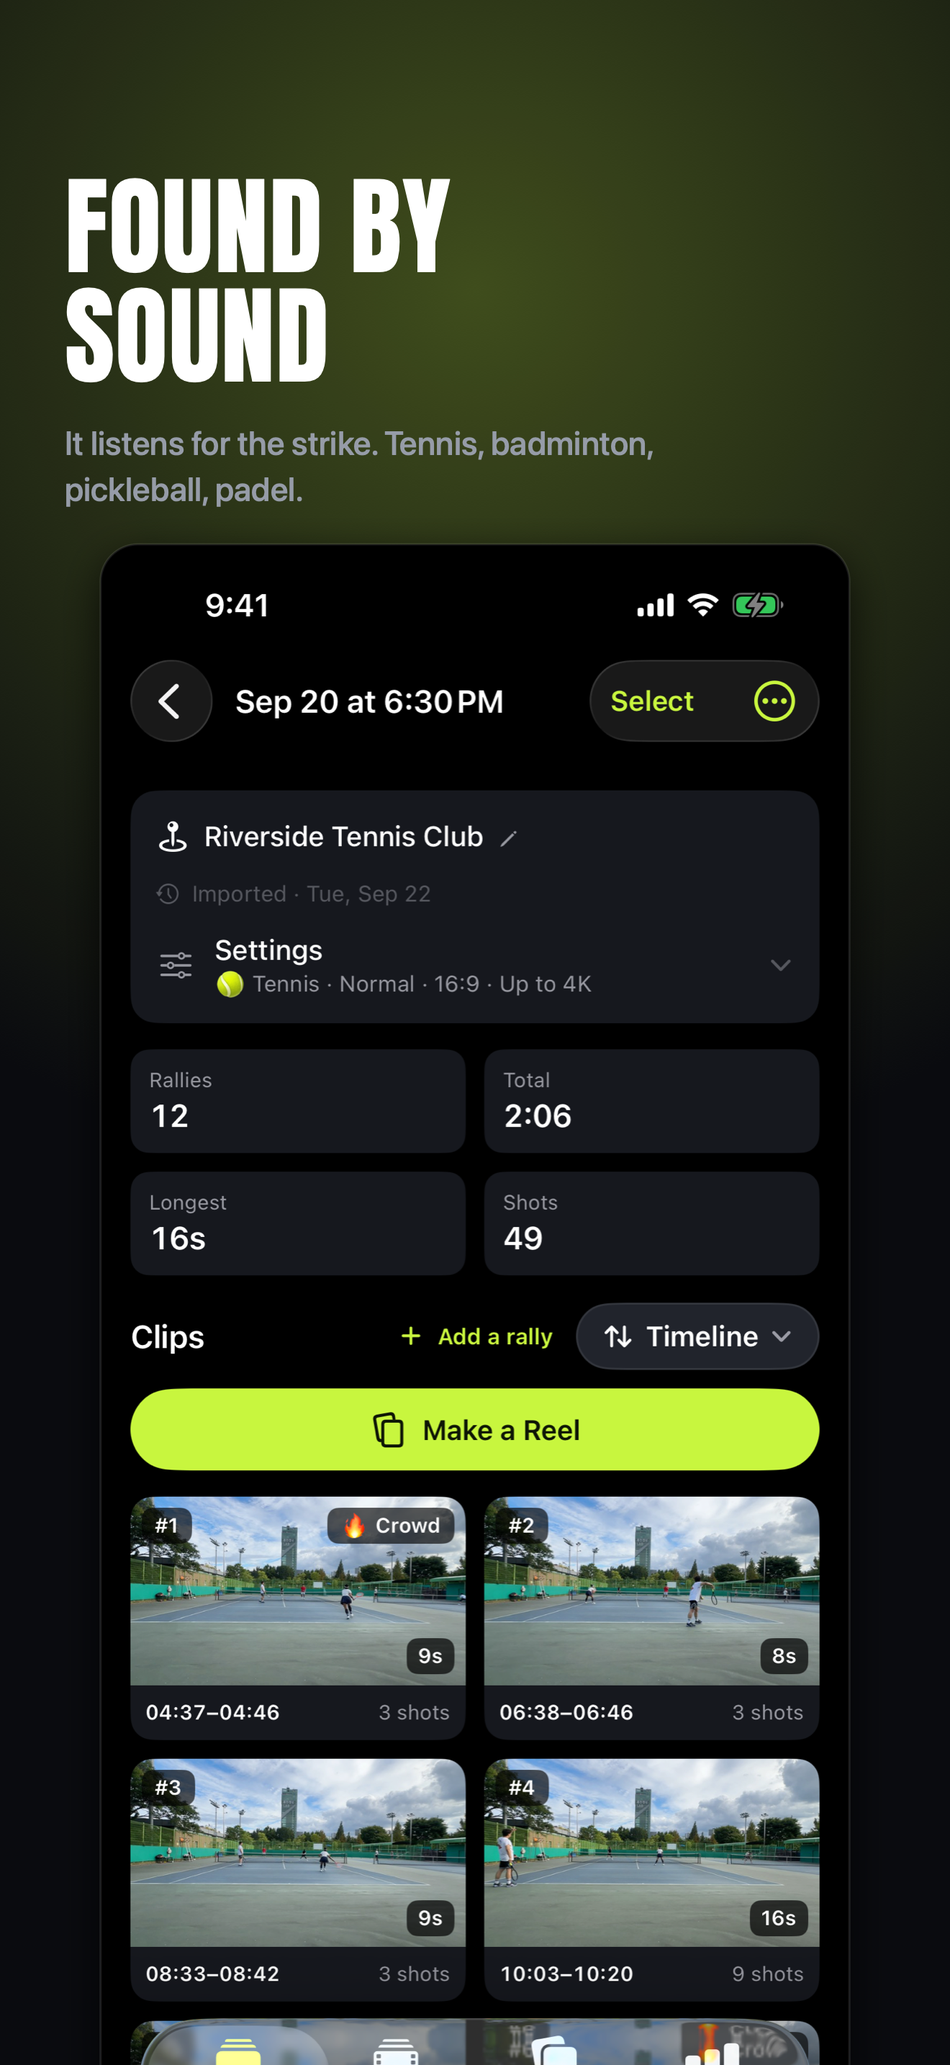
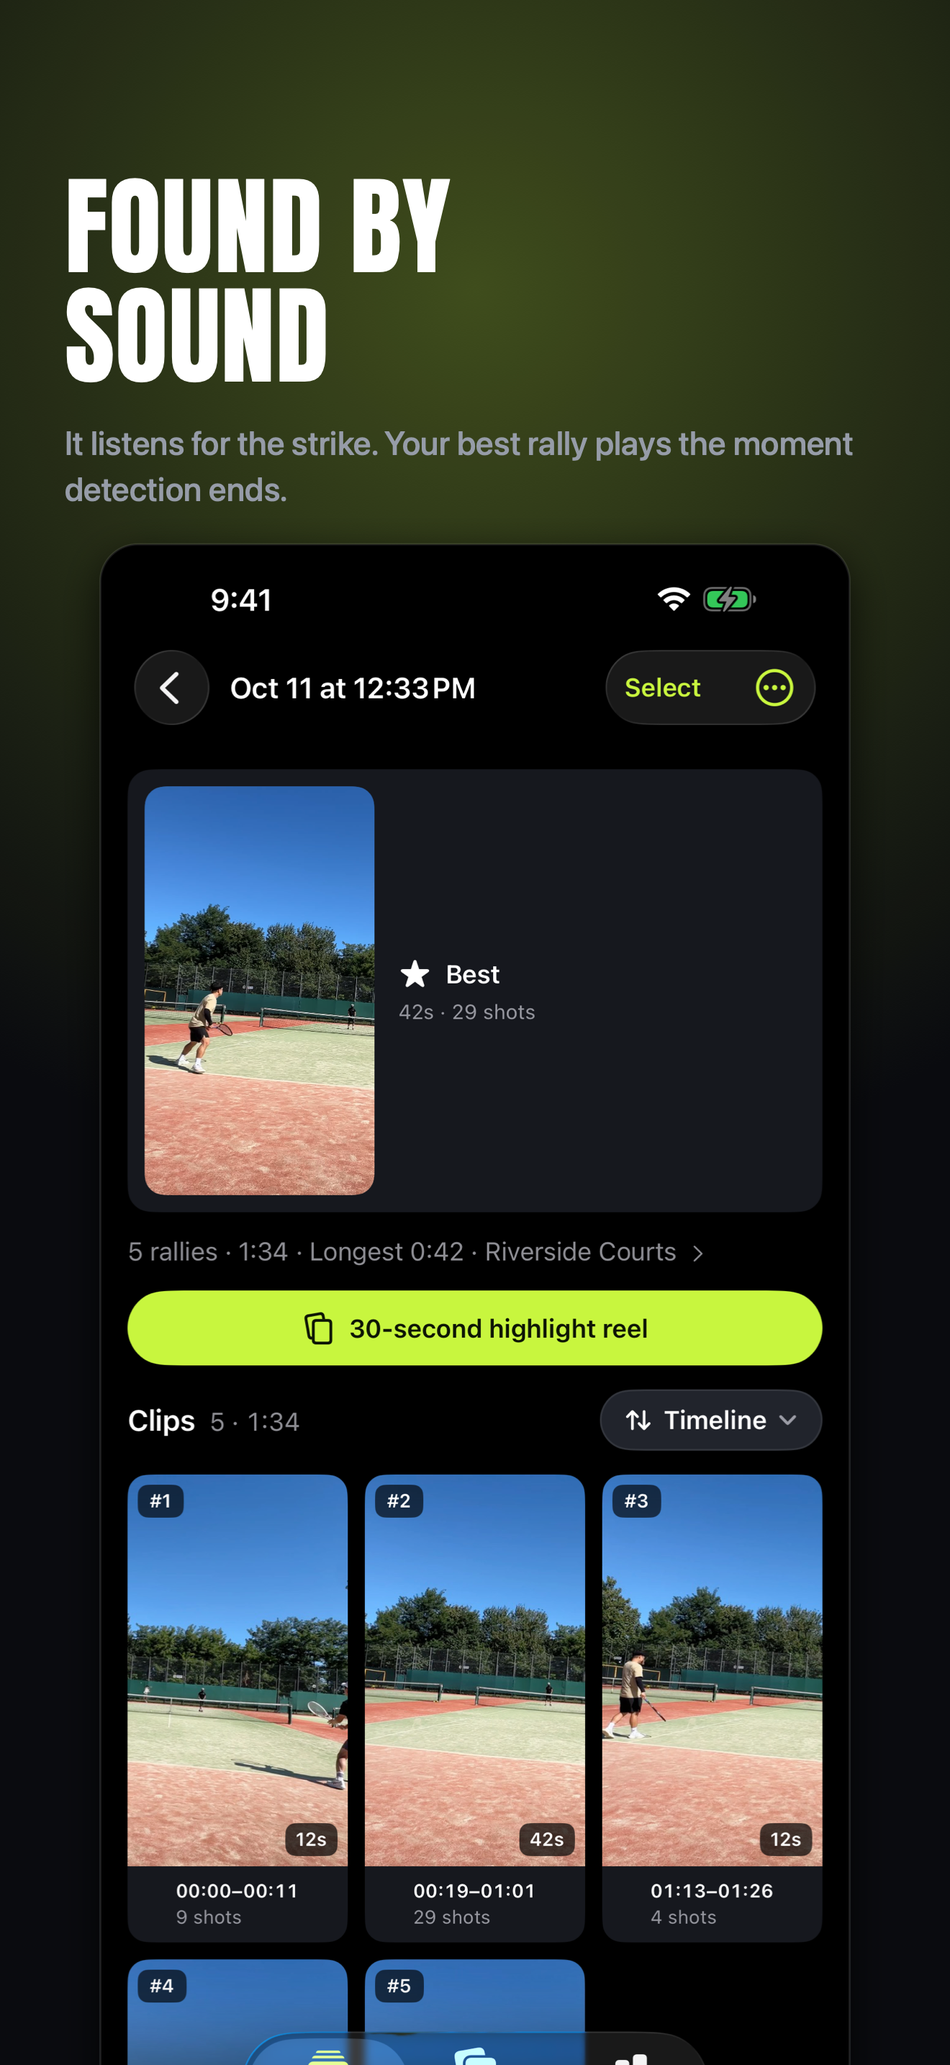
"내 경기"로 이름 통일 + 앱스토어 스크린샷 재촬영
- 라이브러리 제목·탭: 내 세션/라이브러리 → 내 경기/경기 (9개 언어)
  ko·en·ja의 다른 문구에 남은 "세션"도 경기로
- 시즌 "최장 랠리" 기록에서 60초+ 긴 구간 제외, 길이 표기 m:ss 통일
- 스크린샷 5장을 D1–D4 화면으로 다시 만듦(영어 UI, Pro, 9:41)
  세션·릴스 설명 문구를 새 흐름에 맞춤

diff --git a/ios/Ribatto/L10n.swift b/ios/Ribatto/L10n.swift
@@ -92,10 +92,10 @@ enum L {
 
     private static let table: [String: [String: String]] = [
         "en": [
-            "library": "Library", "all_clips": "All Clips",
-            "my_sessions": "My Sessions",
+            "library": "Matches", "all_clips": "All Clips",
+            "my_sessions": "My Matches",
             "import_video": "Import Video",
-            "lib_empty_title": "No sessions yet",
+            "lib_empty_title": "No matches yet",
             "lib_empty_body": "Import a match video and Ribatto will keep only the rallies.",
             "not_detected": "Not analyzed yet",
             "detect": "Detect Rallies", "redetect": "Re-detect",
@@ -121,7 +121,7 @@ enum L {
             
             "play": "Play", "save": "Save", "rebuild": "Rebuild",
             "delete": "Delete", "delete_clip": "Delete Clip", "cancel": "Cancel",
-            "delete_session": "Delete Session",
+            "delete_session": "Delete Match",
             "long_block": "Maybe several",
             "long_block_explain": "Over a minute long. Several rallies may have been joined.",
             "long_block_note": "Several rallies may be joined into one",
@@ -156,21 +156,21 @@ enum L {
             "ob3_t": "Ready for Reels",
             "ob3_d": "Vertical clips and a highlight reel, made on your phone.",
             "pro_rerender_t": "Pass active",
-            "pro_rerender_d": "Re-render this session at full quality.",
+            "pro_rerender_d": "Re-render this match at full quality.",
             "rerender": "Re-render",
             "save_all": "Save all to Photos",
             "saved_n_fmt": "%d clips saved to Photos",
             "saved_one_fmt": "%d clip saved to Photos",
             "delete_one_clip": "Delete %d clip?",
-            "delete_one_session": "Delete %d session?",
-            "n_one_session": "%d session",
+            "delete_one_session": "Delete %d match?",
+            "n_one_session": "%d match",
             "rallies_one": "%d rally",
             "visits_one": "%d visit",
             "photos_denied": "Photo access is off. Enable it in Settings to save clips.",
             "feat_quality": "Full-quality export",
             "feat_quality_d": "Source quality instead of 720p — 4K wide, 1080p vertical.",
             "feat_saveall": "One-tap camera roll",
-            "feat_saveall_d": "Send every clip of a session to Photos at once.",
+            "feat_saveall_d": "Send every clip of a match to Photos at once.",
             "feat_merge_d": "Join chosen rallies into one video you can post as a single clip.",
             "season": "Season", "this_month": "This month", "all_time": "All time",
             "matches": "Matches", "records": "Personal records",
@@ -207,7 +207,7 @@ enum L {
             "target_frame": "Frame",
             "target_clip_title": "Track in this clip",
             "target_clip": "Track someone else in this clip",
-            "target_clip_reset": "Use the session's player",
+            "target_clip_reset": "Use the match's player",
             "target_clip_on": "This clip follows its own player",
             "target_lose_note": "If the player is hidden or leaves the frame, tracking can lose them — the crop then holds its last position.",
             "feat_target": "Follow one player",
@@ -315,15 +315,15 @@ enum L {
             "reel_preset": "Look", "preset_own": "As set",
             "preset_clean": "Clean", "preset_broadcast": "Broadcast",
             "preset_highlight": "Highlight", "preset_teaser": "Teaser",
-            "preset_own_d": "Keeps the caption exactly as each session has it.",
+            "preset_own_d": "Keeps the caption exactly as each match has it.",
             "preset_clean_d": "The whole rally, 9:16, caption low and quiet.",
             "preset_broadcast_d": "The whole rally, 9:16, caption as a bar across the top.",
             "preset_highlight_d": "Just the finish, 9:16, big outlined caption near the top.",
             "preset_teaser_d": "Winning shot first, then the rally. 4:5 for the feed.",
             "pos_top": "Top", "pos_center": "Middle", "pos_bottom": "Bottom",
-            "search_sessions": "Search sessions", "search_clips": "Search clips",
+            "search_sessions": "Search matches", "search_clips": "Search clips",
             "all": "All", "no_match": "Nothing matches that.",
-            "delete_n": "Delete %d", "delete_n_sessions": "Delete %d sessions?",
+            "delete_n": "Delete %d", "delete_n_sessions": "Delete %d matches?",
             "min_len": "Length", "any_len": "Any", "len_fmt": "%d s+",
             "keep_awake": "Stay in Ribatto until this finishes. If you leave, it pauses and picks up when you come back.",
             "keep_awake_bg": "You can use other apps — Ribatto keeps going and lets you know when it's done.",
@@ -352,7 +352,7 @@ enum L {
             "photos_needed": "Allow photo access to import without copying.",
             "filter": "Filter", "clear": "Clear", "delete_n_clips": "Delete %d clips?",
             "more": "More",
-            "n_sessions": "%d sessions",
+            "n_sessions": "%d matches",
             "locked_fmt": "%@ needs a pass",
             "export_quality": "Export quality",
             "quality_720": "720p", "quality_source": "Up to 4K",
@@ -426,10 +426,10 @@ enum L {
             
         ],
         "ko": [
-            "library": "라이브러리", "all_clips": "모든 클립",
-            "my_sessions": "내 세션",
+            "library": "경기", "all_clips": "모든 클립",
+            "my_sessions": "내 경기",
             "import_video": "영상 가져오기",
-            "lib_empty_title": "아직 세션이 없습니다",
+            "lib_empty_title": "아직 경기가 없습니다",
             "lib_empty_body": "경기 영상을 가져오면 랠리만 골라 클립으로 만들어드립니다.",
             "not_detected": "아직 감지 전",
             "detect": "랠리 감지", "redetect": "다시 감지",
@@ -455,7 +455,7 @@ enum L {
             
             "play": "재생", "save": "저장", "rebuild": "다시 만들기",
             "delete": "삭제", "delete_clip": "클립 삭제", "cancel": "취소",
-            "delete_session": "세션 삭제",
+            "delete_session": "경기 삭제",
             "long_block": "여러 랠리일 수 있음",
             "long_block_explain": "1분이 넘는 구간이에요. 랠리 여러 개가 붙었을 수 있어요.",
             "long_block_note": "랠리 여러 개가 하나로 묶였을 수 있어요",
@@ -490,21 +490,21 @@ enum L {
             "ob3_t": "릴스까지 한 번에",
             "ob3_d": "세로 클립과 하이라이트 합본을 폰에서 바로 만듭니다.",
             "pro_rerender_t": "패스 이용 중",
-            "pro_rerender_d": "이 세션을 원본 화질로 다시 만들 수 있습니다.",
+            "pro_rerender_d": "이 경기를 원본 화질로 다시 만들 수 있습니다.",
             "rerender": "다시 만들기",
             "save_all": "전체 사진 앱에 저장",
             "saved_n_fmt": "클립 %d개를 사진 앱에 저장했습니다",
             "saved_one_fmt": "클립 %d개를 사진에 저장했습니다",
             "delete_one_clip": "클립 %d개를 삭제할까요?",
-            "delete_one_session": "세션 %d개를 삭제할까요?",
-            "n_one_session": "세션 %d개",
+            "delete_one_session": "경기 %d개를 삭제할까요?",
+            "n_one_session": "경기 %d개",
             "rallies_one": "랠리 %d개",
             "visits_one": "%d회",
             "photos_denied": "사진 접근이 꺼져 있습니다. 설정에서 허용해 주세요.",
             "feat_quality": "최고 화질 저장",
             "feat_quality_d": "720p 대신 원본 화질로 — 가로 4K, 세로 1080p.",
             "feat_saveall": "한 번에 카메라 롤로",
-            "feat_saveall_d": "세션의 모든 클립을 사진 앱에 한 번에 저장.",
+            "feat_saveall_d": "경기의 모든 클립을 사진 앱에 한 번에 저장.",
             "feat_merge_d": "고른 랠리를 하나의 영상으로 합쳐 한 번에 올릴 수 있습니다.",
             "season": "기록", "this_month": "이번 달", "all_time": "전체 기간",
             "matches": "경기", "records": "개인 기록",
@@ -541,7 +541,7 @@ enum L {
             "target_frame": "프레임",
             "target_clip_title": "이 클립에서 추적",
             "target_clip": "이 클립만 다시 지정",
-            "target_clip_reset": "세션 기본 선수 사용",
+            "target_clip_reset": "경기 기본 선수 사용",
             "target_clip_on": "이 클립은 따로 지정된 선수를 따라갑니다",
             "target_lose_note": "선수가 가려지거나 화면 밖으로 나가면 추적을 놓칠 수 있습니다. 그럴 땐 마지막 위치를 유지합니다.",
             "feat_target": "한 선수만 따라가기",
@@ -649,15 +649,15 @@ enum L {
             "reel_preset": "스타일", "preset_own": "내 설정",
             "preset_clean": "깔끔", "preset_broadcast": "중계",
             "preset_highlight": "하이라이트", "preset_teaser": "티저",
-            "preset_own_d": "자막을 각 세션에 설정한 그대로 둡니다.",
+            "preset_own_d": "자막을 각 경기에 설정한 그대로 둡니다.",
             "preset_clean_d": "랠리 전체, 9:16, 자막은 아래쪽에 담백하게.",
             "preset_broadcast_d": "랠리 전체, 9:16, 자막을 상단 띠로 올립니다.",
             "preset_highlight_d": "마무리 장면만, 9:16, 상단에 큼직한 외곽선 자막.",
             "preset_teaser_d": "위닝샷 먼저 보여주고 랠리 전체. 피드용 4:5.",
             "pos_top": "위", "pos_center": "가운데", "pos_bottom": "아래",
-            "search_sessions": "세션 검색", "search_clips": "클립 검색",
+            "search_sessions": "경기 검색", "search_clips": "클립 검색",
             "all": "전체", "no_match": "조건에 맞는 항목이 없습니다.",
-            "delete_n": "%d개 삭제", "delete_n_sessions": "세션 %d개를 삭제할까요?",
+            "delete_n": "%d개 삭제", "delete_n_sessions": "경기 %d개를 삭제할까요?",
             "min_len": "길이", "any_len": "전체", "len_fmt": "%d초 이상",
             "keep_awake": "끝날 때까지 리바토를 열어 두세요. 다른 앱으로 가면 멈췄다가 돌아오면 이어서 만듭니다.",
             "keep_awake_bg": "다른 앱을 써도 됩니다. 계속 만들고 끝나면 알려드릴게요.",
@@ -760,10 +760,10 @@ enum L {
             
         ],
         "ja": [
-            "library": "ライブラリ", "all_clips": "すべてのクリップ",
-            "my_sessions": "マイセッション",
+            "library": "試合", "all_clips": "すべてのクリップ",
+            "my_sessions": "自分の試合",
             "import_video": "動画を読み込む",
-            "lib_empty_title": "セッションがありません",
+            "lib_empty_title": "試合がありません",
             "lib_empty_body": "試合動画を読み込むと、ラリーだけを切り出します。",
             "not_detected": "未解析",
             "detect": "ラリー検出", "redetect": "再検出",
@@ -789,7 +789,7 @@ enum L {
             
             "play": "再生", "save": "保存", "rebuild": "作り直す",
             "delete": "削除", "delete_clip": "クリップを削除", "cancel": "キャンセル",
-            "delete_session": "セッションを削除",
+            "delete_session": "試合を削除",
             "long_block": "複数ラリーかも",
             "long_block_explain": "1分を超える区間です。複数のラリーがつながっているかもしれません。",
             "long_block_note": "複数のラリーが1つにまとまっているかもしれません",
@@ -824,7 +824,7 @@ enum L {
             "ob3_t": "そのままリールへ",
             "ob3_d": "縦型クリップとハイライトを、スマホの中で作成。",
             "pro_rerender_t": "パス利用中",
-            "pro_rerender_d": "このセッションを最高画質で作り直せます。",
+            "pro_rerender_d": "この試合を最高画質で作り直せます。",
             "rerender": "作り直す",
             "save_all": "すべて写真に保存",
             "saved_n_fmt": "%d 本のクリップを写真に保存しました",
@@ -838,7 +838,7 @@ enum L {
             "feat_quality": "最高画質で書き出し",
             "feat_quality_d": "720pではなく元の画質で — 最大4Kまで書き出せます。",
             "feat_saveall": "ワンタップでカメラロール",
-            "feat_saveall_d": "セッションの全クリップを写真に一括保存。",
+            "feat_saveall_d": "試合の全クリップを写真に一括保存。",
             "feat_merge_d": "選んだラリーを1本の動画にまとめて投稿できます。",
             "season": "記録", "this_month": "今月", "all_time": "通算",
             "matches": "試合", "records": "自己記録",
@@ -875,7 +875,7 @@ enum L {
             "target_frame": "フレーム",
             "target_clip_title": "このクリップで追跡",
             "target_clip": "このクリップだけ選び直す",
-            "target_clip_reset": "セッションの選手を使う",
+            "target_clip_reset": "試合の選手を使う",
             "target_clip_on": "このクリップは個別に指定された選手を追います",
             "target_lose_note": "選手が隠れたりフレームから出ると追跡を見失うことがあります。そのときは最後の位置を保ちます。",
             "feat_target": "特定の選手を追う",
@@ -983,15 +983,15 @@ enum L {
             "reel_preset": "スタイル", "preset_own": "現在の設定",
             "preset_clean": "シンプル", "preset_broadcast": "中継",
             "preset_highlight": "ハイライト", "preset_teaser": "ティザー",
-            "preset_own_d": "字幕は各セッションの設定のままにします。",
+            "preset_own_d": "字幕は各試合の設定のままにします。",
             "preset_clean_d": "ラリー全体、9:16、字幕は下に控えめに。",
             "preset_broadcast_d": "ラリー全体、9:16、字幕を上部の帯に。",
             "preset_highlight_d": "決め球だけ、9:16、上部に大きな縁取り字幕。",
             "preset_teaser_d": "ウイニングショットを先に、その後ラリー全体。フィード向け4:5。",
             "pos_top": "上", "pos_center": "中央", "pos_bottom": "下",
-            "search_sessions": "セッション検索", "search_clips": "クリップ検索",
+            "search_sessions": "試合を検索", "search_clips": "クリップ検索",
             "all": "すべて", "no_match": "条件に合う項目がありません。",
-            "delete_n": "%d件を削除", "delete_n_sessions": "%d件のセッションを削除しますか？",
+            "delete_n": "%d件を削除", "delete_n_sessions": "%d件の試合を削除しますか？",
             "min_len": "長さ", "any_len": "すべて", "len_fmt": "%d秒以上",
             "keep_awake": "完了するまでRibattoを開いたままにしてください。ほかのアプリに移ると一時停止し、戻ると続きから再開します。",
             "keep_awake_bg": "ほかのアプリを使っても大丈夫です。処理を続け、完了したらお知らせします。",
@@ -1094,7 +1094,7 @@ enum L {
             
         ],
         "es": [
-            "library": "Biblioteca",
+            "library": "Partidos",
             "all_clips": "Clips",
             "my_sessions": "Mis partidos",
             "import_video": "Importar vídeo",
@@ -1516,7 +1516,7 @@ enum L {
             
         ],
         "pt": [
-            "library": "Biblioteca",
+            "library": "Jogos",
             "all_clips": "Clipes",
             "my_sessions": "Meus jogos",
             "import_video": "Importar vídeo",
@@ -1938,7 +1938,7 @@ enum L {
             
         ],
         "de": [
-            "library": "Bibliothek",
+            "library": "Matches",
             "all_clips": "Alle Clips",
             "my_sessions": "Meine Matches",
             "import_video": "Video importieren",
@@ -2360,7 +2360,7 @@ enum L {
             
         ],
         "fr": [
-            "library": "Bibliothèque",
+            "library": "Matchs",
             "all_clips": "Tous les clips",
             "my_sessions": "Mes matchs",
             "import_video": "Importer une vidéo",
@@ -2782,7 +2782,7 @@ enum L {
             
         ],
         "it": [
-            "library": "Libreria",
+            "library": "Partite",
             "all_clips": "Tutti i clip",
             "my_sessions": "Le mie partite",
             "import_video": "Importa video",
@@ -3204,7 +3204,7 @@ enum L {
             
         ],
         "zh-Hans": [
-            "library": "资料库",
+            "library": "比赛",
             "all_clips": "全部片段",
             "my_sessions": "我的比赛",
             "import_video": "导入视频",

diff --git a/ios/Ribatto/Views/StatsView.swift b/ios/Ribatto/Views/StatsView.swift
@@ -91,7 +91,7 @@ struct StatsView: View {
                     card {
                         Text(L.s("records", lang)).font(.caption).foregroundStyle(.secondary)
                         record("flame.fill", L.s("rec_longest", lang),
-                               String(Int(l.seconds)) + L.s("sec", lang),
+                               fmtLen(l.seconds, lang),
                                L.dateOnly(l.date, lang))
                         if let b = s.busiest {
                             record("chart.bar.fill", L.s("rec_busiest", lang),
@@ -402,7 +402,7 @@ private struct ShareCard: View {
             // thirty hours.
             pill(fmtDur(stats.monthSeconds), L.s("total", lang))
             if let l = stats.longest {
-                pill(String(Int(l.seconds)) + L.s("sec", lang), L.s("longest", lang))
+                pill(fmtLen(l.seconds, lang), L.s("longest", lang))
             }
         }
     }
@@ -415,7 +415,7 @@ private struct ShareCard: View {
                 .foregroundStyle(dim)
             if let l = stats.longest {
                 line("flame.fill", L.s("rec_longest", lang),
-                     String(Int(l.seconds)) + L.s("sec", lang))
+                     fmtLen(l.seconds, lang))
             }
             if let b = stats.busiest {
                 line("chart.bar.fill", L.s("rec_busiest", lang), String(b.rallies))
@@ -560,7 +560,9 @@ extension StatsView {
             s.totalSeconds += secs
             s.shots += hits
 
-            if let longest = clips.map(\.duration).max(),
+            // A 60 s+ block is usually several points the detector joined;
+            // as a "personal record" it was a number the user never played.
+            if let longest = clips.filter({ !$0.segment.looksMerged }).map(\.duration).max(),
                longest > (s.longest?.seconds ?? 0) {
                 s.longest = (longest, session.playedAt)
             }

diff --git a/ios/Tools/make_screenshots.swift b/ios/Tools/make_screenshots.swift
@@ -58,11 +58,11 @@ let frames: [Frame] = [
           full: false),
     Frame(file: "s2_session.png",
           headline: ["FOUND BY", "SOUND"],
-          sub: "It listens for the strike, not the picture. Tennis and other racket sports.",
+          sub: "It listens for the strike. Your best rally plays the moment detection ends.",
           full: false),
     Frame(file: "s3_reel.png",
           headline: ["BEST RALLIES,", "ONE REEL"],
-          sub: "Keep the top rallies, pick the pace, post it.",
+          sub: "One tap makes a 30-second reel, best rally first. Post it.",
           full: false),
     Frame(file: "s4_season.png",
           headline: ["YOUR SEASON,", "COUNTED"],

diff --git a/CLAUDE.md b/CLAUDE.md
@@ -160,7 +160,8 @@ swift Tools/make_screenshots.swift <캡처폴더> <출력폴더>   # ios/ 에서
 ```
 
 스크린샷 속 세션 이름·코트는 데모용으로 채운 값이다. 실제 사용자 데이터가 아니다.
-2026-09-22에 광고 전용 기준으로 다시 만들었다: 히어로(Pro 9:16 클립) · 라이브러리 · 세션 · 릴스 만들기 · 시즌.
+2026-10-12에 D1–D4 화면 기준으로 다시 만들었다: 히어로(Pro 9:16 클립) · 내 경기(라이브러리) · 세션 화면 · 릴스 결과 · 시즌.
+데모 장소명은 앱 데이터의 meta.json `placeName`을 직접 고쳐 넣었다.
 캡처는 영어 UI + Debug Pro(테스트 광고 배너가 안 찍히게) + `simctl status_bar override --time 9:41`. 히어로는 `hero.jpg`로 넣는다.
 
 ## Pro 테스트
